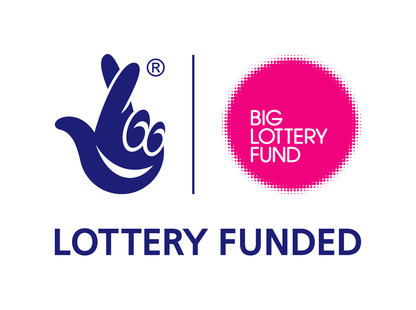
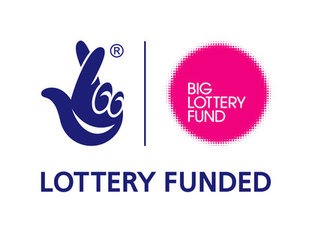
resize smaller

diff --git a/pages/onedigital.md b/pages/onedigital.md
@@ -7,7 +7,7 @@ permalink: /onedigital/
 
 ![One Digital](/images/OneDigital_badge.jpg)		![Big Lottery Fund](/images/big lottery fund.jpg)
 
-We at the One Digital team we have been awarded £500k from the Big Lottery Fund in an effort to better understand how to make a significant and sustainable improvement in the [Basic Digital Skills](http://www.go-on.co.uk/get-involved/basic-digital-skills/) of the people most in need.
+The One Digital project has been awarded £500k from the Big Lottery Fund in an effort to better understand how to make a significant and sustainable improvement in the [Basic Digital Skills](http://www.go-on.co.uk/get-involved/basic-digital-skills/) of the people most in need.
 
 This activity is part of a wider £2 million digital skills programme [One Digital](https://www.biglotteryfund.org.uk/global-content/press-releases/uk-wide/090915_uk_digital-skills/), which has been developed by a consortium of organisations including SCVO, [Digital Unite](http://digitalunite.com/), [Age UK](http://www.ageuk.org.uk/) and [Citizens Online](http://www.citizensonline.org.uk/). Our projects will benefit people with disabilities and accessibility needs, young adults seeking work, over 65s and charities and the people they support, so that they are able to access essential online services, search and apply for jobs and stay in touch with friends and family.
 
